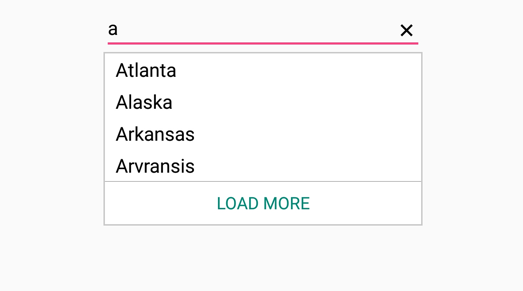
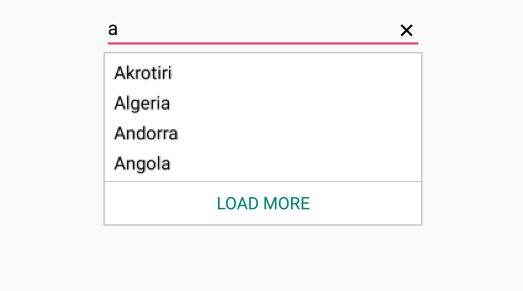
Changed the content based on the Screenshots in UG

diff --git a/xamarin-android/SfAutoComplete/Multiple-selection.md b/xamarin-android/SfAutoComplete/Multiple-selection.md
@@ -23,11 +23,7 @@ Selected items will be displayed with a customizable token representation and th
 
 {% highlight C# %}
 	
-	List<String> countryList = new List<String>(); 
-	countryList.Add ("Afghanistan");
-	countryList.Add ("Akrotiri");
-	countryList.Add ("Albania");
-	countryList.Add ("Algeria");
+	
 	ArrayAdapter<String> countryListDataAdapters = new ArrayAdapter<String>(context,Android.Resource.Layout.SimpleListItem1, countryList);
 	countryAutoComplete.SetAutoCompleteSource(countryListDataAdapters);
 	countryAutoComplete.MultiSelectMode=MultiSelectMode.Token;
@@ -48,17 +44,78 @@ The selected item can be displayed as token inside SfAutoComplete in two ways. T
 {% tabs %}
 
 {% highlight C# %}
-	
-	List<String> countryList = new List<String>(); 
-	countryList.Add ("Afghanistan");
-	countryList.Add ("Akrotiri");
-	countryList.Add ("Albania");
-	countryList.Add ("Algeria");
-	ArrayAdapter<String> countryListDataAdapters = new ArrayAdapter<String>(context,Android.Resource.Layout.SimpleListItem1, countryList);
-	countryAutoComplete.SetAutoCompleteSource(countryListDataAdapters);
-	countryAutoComplete.MultiSelectMode=MultiSelectMode.Token;
-	countryAutoComplete.TokensWrapMode=TokensWrapMode.Wrap;
+
+public class Student
+	{
+		string Name;
+		string Image;
+		public Student(string name,string image)
+		{
+			this.Name = name;
+			this.Image = image;
+
+		}
+		public string getName()
+		{
+			return Name;
+		}
+		public string getImage()
+		{
+			return Image;
+		}
+	}
+
+public NSMutableArray StudentDetails
+		{
+			get;
+			set;
+		}
+
+		void GetStudentData()
+		{
+			NSMutableArray array = new NSMutableArray();
+			array.Add(getDictionary("John", "a1.png"));
+			array.Add(getDictionary("James", "a2.png"));
+			array.Add(getDictionary("Jacob", "a3.png"));
+			array.Add(getDictionary("Joy", "a4.png"));
+			array.Add(getDictionary("Victoria", "a5.png"));
+			array.Add(getDictionary("James", "a6.png"));
+
+			StudentDetails = array;
+		}
+
+		NSDictionary getDictionary(string name, string image)
+		{
+
+			object[] objects = new object[2];
+			object[] keys = new object[2];
+			keys.SetValue("Name", 0);
+			keys.SetValue("Image", 1);
+			objects.SetValue((NSString)name, 0);
+			objects.SetValue((NSString)image, 1);
+			return NSDictionary.FromObjectsAndKeys(objects, keys);
+		}
 	 
+	
+	ArrayAdapter<Object> arrayDataAdapters = new ArrayAdapter<Object>(context,Android.Resource.Layout.SimpleListItem1, array);
+	StudentDetails.MultiSelectMode=MultiSelectMode.Token;
+	studentAutoComplete.DataSource = arrayDataAdapters;
+
+// Set the TokensWrapMode into Wrap.
+
+	StudentDetails.TokensWrapMode=TokensWrapMode.Wrap;
+
+	TokensSetting token = new TokensSetting();
+	token.FontSize=15;
+	token.CornerRadius=5;
+	token.SetTextColor(Color.Red);
+	token.SetBackgroundColor(Color.Gray);
+	token.SelectedBackgroundColor(Color.Yellow);
+	token.SetDeleteButtonColor(Color.Maroon);
+    token.IsCloseButtonVisible=true;
+	StudentDetails.TokensSetting= token;
+
+	
 {% endhighlight %}
 
 {% endtabs %}
@@ -90,15 +147,62 @@ token.
 
 {% highlight C# %}
 	
-	List<String> countryList = new List<String>(); 
-	countryList.Add ("Afghanistan");
-	countryList.Add ("Akrotiri");
-	countryList.Add ("Albania");
-	countryList.Add ("Algeria");
-	ArrayAdapter<String> countryListDataAdapters = new ArrayAdapter<String>(context,Android.Resource.Layout.SimpleListItem1, countryList);
-	countryAutoComplete.SetAutoCompleteSource(countryListDataAdapters);
-	countryAutoComplete.MultiSelectMode=MultiSelectMode.Token;
-	countryAutoComplete.TokensWrapMode=TokensWrapMode.Wrap;
+	public class Student
+	{
+		string Name;
+		string Image;
+		public Student(string name,string image)
+		{
+			this.Name = name;
+			this.Image = image;
+
+		}
+		public string getName()
+		{
+			return Name;
+		}
+		public string getImage()
+		{
+			return Image;
+		}
+	}
+	
+public NSMutableArray StudentDetails
+		{
+			get;
+			set;
+		}
+
+		void GetStudentData()
+		{
+			NSMutableArray array = new NSMutableArray();
+			array.Add(getDictionary("John", "image1.png"));
+			array.Add(getDictionary("James", "image2.png"));
+			array.Add(getDictionary("Jacob", "image33.png"));
+			array.Add(getDictionary("Joy", "image4.png"));
+			array.Add(getDictionary("Victoria", "image5.png"));
+			array.Add(getDictionary("James", "image6.png"));
+			StudentDetails = array;
+		}
+
+		NSDictionary getDictionary(string name, string image)
+		{
+
+			object[] objects = new object[2];
+			object[] keys = new object[2];
+			keys.SetValue("Name", 0);
+			keys.SetValue("Image", 1);
+			objects.SetValue((NSString)name, 0);
+			objects.SetValue((NSString)image, 1);
+			return NSDictionary.FromObjectsAndKeys(objects, keys);
+		}
+	 
+	
+	ArrayAdapter<Object> arrayDataAdapters = new ArrayAdapter<Object>(context,Android.Resource.Layout.SimpleListItem1, array);
+	StudentDetails.MultiSelectMode=MultiSelectMode.Token;
+	studentAutoComplete.DataSource = arrayDataAdapters;
+
+	// Token Customization
 
 	TokensSetting token = new TokensSetting();
 	token.FontSize=15;
@@ -106,8 +210,9 @@ token.
 	token.SetTextColor(Color.Red);
 	token.SetBackgroundColor(Color.Gray);
 	token.SelectedBackgroundColor(Color.Yellow);
-	token.SetDeleteButtonColor(Color.Blue);
+	token.SetDeleteButtonColor(Color.Maroon);
     token.IsCloseButtonVisible=true;
+	StudentDetails.TokensSetting= token;
 
 	 
 {% endhighlight %}
@@ -127,15 +232,19 @@ When selecting the multiple items, the selected items can be divided with a desi
 {% highlight C# %}
 	
 	List<String> countryList = new List<String>(); 
-	countryList.Add ("Afghanistan");
+	countryList.Add ("Andorra");
 	countryList.Add ("Akrotiri");
-	countryList.Add ("Albania");
+	countryList.Add ("Angola");
 	countryList.Add ("Algeria");
+	countryList.Add ("Argentina");
+	countryList.Add ("Antarctica");
+	countryList.Add ("Armenia");
+	countryList.Add ("Aruba");
 	ArrayAdapter<String> countryListDataAdapters = new ArrayAdapter<String>(context,Android.Resource.Layout.SimpleListItem1, countryList);
 	countryAutoComplete.SetAutoCompleteSource(countryListDataAdapters);
 	countryAutoComplete.SuggestionMode=SuggestionMode.Contains;
 	countryAutoComplete.MultiSelectMode=MultiSelectMode.Delimiter;
-	countryAutoComplete.Delimiter="*";
+	countryAutoComplete.Delimiter="#";
 	 
 {% endhighlight %}
 

diff --git a/xamarin-android/SfAutoComplete/Header-and-Footer.md b/xamarin-android/SfAutoComplete/Header-and-Footer.md
@@ -31,14 +31,12 @@ We can provide Header Content at the top of the AutoComplete's Suggestion box. `
 	countryAutoComplete.SuggestionMode=SuggestionMode.StartsWith;
 	countryAutoComplete.ShowDropDownHeaderView=true;
 
-
-	 TextView textView = new TextView(context);
-            textView.Text = "Search for U"
-            textView.TextSize = 16;
-            textView.SetPadding(20, 0, 20, 0);
-			DropDownHeaderView header = new DropDownHeaderView();
-			header.AddView(textView);
-			countryAutoComplete.DropDownHeaderView=header;
+    TextView textView = new TextView(context);
+    textView.Text = "Search for U"
+	textView.setTextColor(Color.parseColor("Blue"));
+    textView.TextSize = 16;
+    textView.SetPadding(20, 0, 20, 0);
+	countryAutoComplete.DropDownHeaderView=textView;
 
 
 	 
@@ -62,8 +60,19 @@ List<String> countryList = new List<String>();
 	ArrayAdapter<String> countryListDataAdapters = new ArrayAdapter<String>(context,Android.Resource.Layout.SimpleListItem1, countryList);
 	countryAutoComplete.SetAutoCompleteSource(countryListDataAdapters);
 	countryAutoComplete.SuggestionMode=SuggestionMode.StartsWith;
-	countryAutoComplete.DropDownHeaderViewHeight=50;
+	countryAutoComplete.
+	
+	//Set the Height of the Header View 
+
+	DropDownHeaderViewHeight=50;
 	countryAutoComplete.ShowDropDownHeaderView=true;
+
+	 TextView textView = new TextView(context);
+     textView.Text = "Search for U"
+	 textView.setTextColor(Color.parseColor("Blue"));
+     textView.TextSize = 20;
+     textView.SetPadding(20, 0, 20, 0);
+	countryAutoComplete.DropDownHeaderView=textView;
 
 {% endhighlight %}
 
@@ -93,11 +102,10 @@ We can provide Footer Content at the bottom of the AutoComplete's Suggestion box
 
 	TextView textView = new TextView(context);
             textView.Text = "Add New"
-            textView.TextSize = 16;
+            textView.TextSize = 20;
+			textView.setTextColor(Color.parseColor("Blue"));
             textView.SetPadding(20, 0, 20, 0);
-			DropDownFooterView footer = new DropDownFooterView();
-			footer.AddView(textView);
-			countryAutoComplete.DropDownFooterView=footer;
+			countryAutoComplete.DropDownFooterView=textView;
 	 
 {% endhighlight %}
 
@@ -106,7 +114,11 @@ We can provide Footer Content at the bottom of the AutoComplete's Suggestion box
 ## Footer Height
 
 The height of the Header in the SfAutoComplete can be adjusted by the property `DropDownFooterViewHeight`.
-	
+
+{% tabs %}
+
+{% highlight C# %}
+
 List<String> countryList = new List<String>(); 
     countryList.Add ("Uganda");
 	countryList.Add ("Ukraine");
@@ -115,17 +127,24 @@ List<String> countryList = new List<String>();
 	countryList.Add ("United States");
 	ArrayAdapter<String> countryListDataAdapters = new ArrayAdapter<String>(context,Android.Resource.Layout.SimpleListItem1, countryList);
 	countryAutoComplete.SetAutoCompleteSource(countryListDataAdapters);
+
+	//Set the Height of the Footer View 
+
     countryAutoComplete.DropDownFooterViewHeight= 50;
 
-		TextView textView = new TextView(context);
-            textView.Text = "Add New"
-            textView.TextSize = 16;
-            textView.SetPadding(20, 0, 20, 0);
-			DropDownFooterView footer = new DropDownFooterView();
-			footer.AddView(textView);
-			countryAutoComplete.DropDownFooterView=footer;
+	TextView textView = new TextView(context);
+    textView.Text = "Add New"
+	textView.setTextColor(Color.parseColor("Blue"));
+    textView.TextSize = 20;
+    textView.SetPadding(20, 0, 20, 0);
+	countryAutoComplete.DropDownFooterView=textView;
 
+
+{% endhighlight %}
+
+{% endtabs %}
 ![](images/Footer.png)
 
 
 
+ 

diff --git a/xamarin-android/SfAutoComplete/Diacritic-Sensitivity.md b/xamarin-android/SfAutoComplete/Diacritic-Sensitivity.md
@@ -9,7 +9,7 @@ documentation : ug
 
 # Diacritic Sensitivity
 
-The control does not stick with one type of keyboard, so you can populate items from a language with letters containing diacritics, and search for them with English characters from an en-US keyboard. Users can enable or disable the diacritic sensitivity with the `IgnoreDiacritic` property. In the below code example we have illustrate how to disable the diacritic sensitivity so that items in the suggestion list get populated by entering any diacritic character of that alphabet.
+The control does not stick with one type of keyboard, so you can populate items from a language with letters containing diacritics, and search for them with English characters from an en-US keyboard. Users can enable or disable the diacritic sensitivity with the `IgnoreDiacritic` property. In the below code example we have illustrate how to enable the diacritic sensitivity so that items in the suggestion list get populated by entering any diacritic character of that alphabet.
 
 
 {% tabs %}
@@ -17,7 +17,6 @@ The control does not stick with one type of keyboard, so you can populate items 
 {% highlight C# %}
 	
 	List<String> diacritic = new List<String>(); 
-	    diacritic.Add("Diréct mé tó hómé");
 		diacritic.Add("Hów tó gâin wéight?");
 		diacritic.Add("Hów tó drâw ân éléphânt?");
 		diacritic.Add("Whéré cân I buy â câmérâ?");
@@ -26,10 +25,11 @@ The control does not stick with one type of keyboard, so you can populate items 
 		diacritic.Add("Sây, Hélló Wórld!");
 		diacritic.Add("Hów tó mâké â róbót?");
 		diacritic.Add("Whât timé nów in Indiâ?");
-		diacritic.Add("Whó is whó in thé wórld?");
+
 	ArrayAdapter<String> countryListDataAdapters = new ArrayAdapter<String>(context,Android.Resource.Layout.SimpleListItem1, diacritic);
 	countryAutoComplete.SetAutoCompleteSource(countryListDataAdapters);
-	countryAutoComplete.MaximumSuggestion="2";
+	countryAutoComplete.TextHighlightMode=OccurrenceMode.MultipleOccurrence;
+	countryNameAutoComplete.HighlightedTextColor = Color.Red; 
 	countryAutoComplete.IgnoreDiacritic=false;;
 	 
 {% endhighlight %}

diff --git a/xamarin-android/SfAutoComplete/highlighting-matched-text.md b/xamarin-android/SfAutoComplete/highlighting-matched-text.md
@@ -20,7 +20,7 @@ The text highlight can be indicated with various customizing styles by enabling 
 
 * HighlightedTextColor -  sets the color of the highlighted text for differentiating the highlighted characters.
 
-* HighlightTextFontAttributes - sets the FontAttributes of the highlighted text.
+* HighlightedTextFontAttributes - sets the FontAttributes of the highlighted text.
 
 ## FirstOccurrence
 
@@ -39,10 +39,15 @@ It highlights the first position of the matching characters in the suggestion li
 	countryAutoComplete.SetAutoCompleteSource(countryListDataAdapters);
 	countryAutoComplete.SuggestionMode=SuggestionMode.StartsWith;
 	countryAutoComplete.TextHighlightMode=OccurrenceMode.FirstOccurrence;
+	countryNameAutoComplete.HighlightedTextColor = Color.Red; 
+	countryNameAutoComplete.HighlightedTextFontAttributes = HighlightedTextFontAttributes.Bold;
 	 
 {% endhighlight %}
 
 {% endtabs %}
+
+N> The default Color of HighlightedTextColor is Red.
+   The default FontAttribute of HighlightedTextFontAttributes is None.
 	
 ![](images/FirstOccurrence.png)
 
@@ -63,6 +68,8 @@ It highlights the matching character that are present everywhere in the suggesti
 	countryAutoComplete.SetAutoCompleteSource(countryListDataAdapters);
 	countryAutoComplete.SuggestionMode=SuggestionMode.Contains;
 	countryAutoComplete.TextHighlightMode=OccurrenceMode.MultipleOccurrence;
+	countryNameAutoComplete.HighlightedTextColor = Color.Red; 
+	countryNameAutoComplete.HighlightedTextFontAttributes = HighlightedTextFontAttributes.Bold;
 	 
 {% endhighlight %}
 

diff --git a/xamarin-android/SfAutoComplete/Maximum-display-item-with-Expander.md b/xamarin-android/SfAutoComplete/Maximum-display-item-with-Expander.md
@@ -16,13 +16,16 @@ Restrict the number of suggestions displayed and have the remaining items loaded
 {% highlight C# %}
 	
 	List<String> countryList = new List<String>(); 
-	countryList.Add ("Afghanistan");
 	countryList.Add ("Akrotiri");
-	countryList.Add ("Albania");
 	countryList.Add ("Algeria");
+	countryList.Add ("Andorra");
+	countryList.Add ("Angola");
+	countryList.Add ("Afghanistan");
+	countryList.Add ("Arabia");
+	countryList.Add ("Africa");
 	ArrayAdapter<String> countryListDataAdapters = new ArrayAdapter<String>(context,Android.Resource.Layout.SimpleListItem1, countryList);
 	countryAutoComplete.SetAutoCompleteSource(countryListDataAdapters);
-	countryAutoComplete.MaximumSuggestion="2";
+	countryAutoComplete.MaximumSuggestion="4";
 	countryAutoComplete.LoadMoreText="LOAD MORE";
 	 
 {% endhighlight %}
